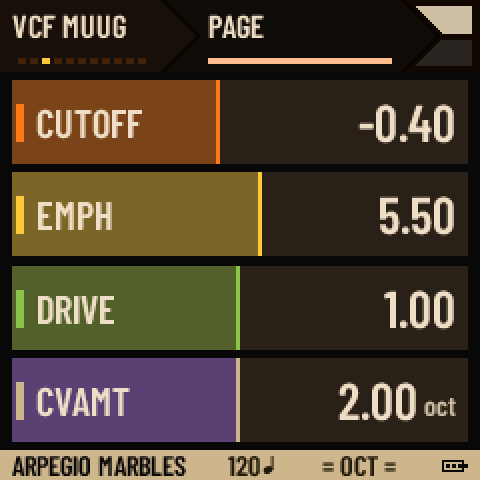
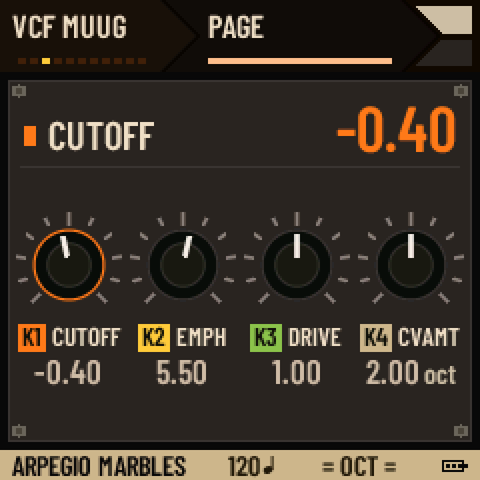
Visuals: MENU > PANEL > VISUAL (AUTO or one scene kept) and VISUAL SCOPE (the oscilloscope over the scenes); docs, screenshots and the LCD manual for the new look
Claude-Session: https://claude.ai/code/session_01GmRWdARKuDH73Lr1UxJzxN

diff --git a/firmware/src/viz_ui.c b/firmware/src/viz_ui.c
@@ -104,6 +104,11 @@ static uint32_t vj_t, vj_scene, vj_since, vj_beat_ms;
 static uint32_t vj_bass, vj_mid, vj_high, vj_pulse, vj_ring;   /* 0..255; the beat's flash; the shock ring's radius */
 static uint32_t vj_avg = 64u, vj_max[3] = {2000u, 2000u, 2000u};
 static const uint16_t VJ_PAL[6] = {0x0000u, 0x2860u, 0x5900u, 0xAA20u, 0xFBC3u, 0xFE4Au};
+/* KITTEN RACK: with the scope over the scenes (MENU > PANEL > VISUAL SCOPE, the web visuals' BOTH) the band it runs in is
+ * darker (55 %), as the web page's */
+static const uint16_t VJ_PAL_DIM[6] = {0x0000u, 0x1820u, 0x30A0u, 0x5940u, 0x8A62u, 0x8B65u};
+#define VJ_BAND0 5u                     /* the band's cell rows: 20 .. 80 % of the screen */
+#define VJ_BAND1 22u
 
 /* the bass, the middle, the highs of the last 512 samples (half rate), each 0..255 of what it reached lately */
 static void vj_listen(void)
@@ -206,13 +211,47 @@ static uint32_t vj_cell(uint32_t x, uint32_t y)
     }
 }
 
+/* KITTEN RACK: the scope's trace over the scenes: per column its span (viz_lo..viz_hi) around the screen's middle, the
+ * cells under the last one drawn again (vj_drawn 0xFF) before the scene, the new trace over them after */
+#define VJ_YC (VJ_Y0 + VJ_H * 4u)
+static uint32_t vj_trace_start, vj_trace_gain = 256u;
+static void vj_trace_prep(void)
+{
+    uint32_t w = viz_w, i, peak = 0, want;
+    vj_trace_start = 0;
+    for (i = 1; i < 300u; i++)                  /* the trigger: rising through zero (as viz_scope) */
+        if (VIZ_AT(w, 560u, i - 1u) < 0 && VIZ_AT(w, 560u, i) >= 0) {
+            vj_trace_start = i;
+            break;
+        }
+    for (i = vj_trace_start; i < vj_trace_start + 240u; i++) {
+        int32_t v = VIZ_AT(w, 560u, i);
+        uint32_t a = (uint32_t)(v < 0 ? -v : v);
+        peak = a > peak ? a : peak;
+    }
+    want = peak > 600u ? (80u << 16) / peak : (80u << 16) / 600u;
+    want = want > 4096u ? 4096u : want;
+    vj_trace_gain = (vj_trace_gain * 7u + want) / 8u;
+}
+static int32_t vj_trace_y(uint32_t x)
+{
+    int32_t v = VIZ_AT(viz_w, 560u, vj_trace_start + x), y = (int32_t)VJ_YC - ((v * (int32_t)vj_trace_gain) >> 8) / 256;
+    return clampi(y, (int32_t)(VJ_Y0 + VJ_BAND0 * 8u), (int32_t)(VJ_Y0 + VJ_BAND1 * 8u) - 1);
+}
+
 static void viz_vj(int full)
 {
-    uint32_t x, y, i;
+    uint32_t x, y, i, scope = cfg.viz_scope;
     if (full || !viz_ok) {
-        viz_ground("VISUAL");
+        static char title[24];
+        put(put(title, "VISUAL  "), cfg.viz_scene ? VIZ_SCENE_NAME[cfg.viz_scene - 1u] : "AUTO")[0] = 0;
+        viz_ground(title);
         for (i = 0; i < VJ_W * VJ_H; i++)
             vj_drawn[i] = 0;
+        for (x = 0; x < 240u; x++) {
+            viz_lo[x] = 1;
+            viz_hi[x] = 0;
+        }
         vj_since = fm1_ms;
         viz_ok = 1;
     }
@@ -220,19 +259,51 @@ static void viz_vj(int full)
     vj_t++;
     vj_pulse = vj_pulse > 24u ? vj_pulse - 24u : 0u;
     vj_ring += 12u;
-    if (fm1_ms - vj_since > 10000u) {           /* the next scene, if no beat brought it */
+    if (cfg.viz_scene)                          /* KITTEN RACK: one scene kept (MENU > PANEL > VISUAL) */
+        vj_scene = cfg.viz_scene - 1u;
+    else if (fm1_ms - vj_since > 10000u) {      /* the next scene, if no beat brought it */
         vj_scene = (vj_scene + 1u) % 5u;
         vj_since = fm1_ms;
     }
+    if (scope)
+        for (x = 0; x < 240u; x++)              /* the cells under the last trace: drawn again */
+            if (viz_lo[x] <= viz_hi[x])
+                for (y = (viz_lo[x] - VJ_Y0) / 8u; y <= (uint32_t)(viz_hi[x] - VJ_Y0) / 8u && y < VJ_H; y++)
+                    vj_drawn[y * VJ_W + x / 8u] = 0xFFu;
     for (y = 0; y < VJ_H; y++)
         for (x = 0; x < VJ_W; x++) {
-            uint32_t c = vj_cell(x, y);
+            uint32_t c = vj_cell(x, y), dim = scope && y >= VJ_BAND0 && y < VJ_BAND1, code = c | (dim ? 8u : 0u);
             i = y * VJ_W + x;
-            if (c == vj_drawn[i])
+            if (code == vj_drawn[i])
                 continue;
-            vj_drawn[i] = (uint8_t)c;
-            lcd_fill(x * 8u, VJ_Y0 + y * 8u, 8, 8, VJ_PAL[c]);
+            vj_drawn[i] = (uint8_t)code;
+            lcd_fill(x * 8u, VJ_Y0 + y * 8u, 8, 8, dim ? VJ_PAL_DIM[c] : VJ_PAL[c]);
         }
+    if (!scope) {
+        for (x = 0; x < 240u; x++) {
+            viz_lo[x] = 1;
+            viz_hi[x] = 0;
+        }
+        return;
+    }
+    vj_trace_prep();
+    {
+        int32_t prev = vj_trace_y(0);
+        for (x = 0; x < 240u; x++) {            /* the trace, 2 px at least, bright where it is steep */
+            int32_t yy = vj_trace_y(x), lo = yy < prev ? yy : prev, hi = yy < prev ? prev : yy, k;
+            prev = yy;
+            if (hi - lo < 1)
+                hi = lo + 1;
+            lcd_sync();
+            for (k = lo; k <= hi; k++) {
+                uint16_t c = hi - lo > 6 ? VIZ_OR : VIZ_OR_HI;
+                lcd_line[k - lo] = (uint16_t)((c >> 8) | (c << 8));
+            }
+            lcd_blit(x, (uint32_t)lo, 1, (uint32_t)(hi - lo + 1), lcd_line);
+            viz_lo[x] = (uint8_t)lo;
+            viz_hi[x] = (uint8_t)hi;
+        }
+    }
 }
 
 static void viz_draw(int full)

diff --git a/firmware/src/menu.c b/firmware/src/menu.c
@@ -23,10 +23,14 @@ static void settings_store(void);               /* main.c: the settings record n
 enum { MT_PANEL, MT_MIDI, MT_REC, MT_SYSTEM, MT_MANUAL, MT_COUNT };   /* (MANUAL has no rows: a text) */
 static const char *const ROW_NAME[MR_COUNT] = {"LEDS", "KNOB ACCEL", "MIDI CHANNEL", "CLOCK IN", "MIDI OUT",
                                               "VERSION", "CPU", "CPU PEAK", "BANK SLOTS", "BATTERY", "UPDATE MODE", "FACTORY RESET", "LANGUAGE",
-                                              "CLICK", "CLICK LEVEL", "REC MODE", "REC LENGTH", "REC START", "QUANTIZE", "KEY LIGHTS"};
+                                              "CLICK", "CLICK LEVEL", "REC MODE", "REC LENGTH", "REC START", "QUANTIZE", "KEY LIGHTS",
+                                              "VISUAL", "VISUAL SCOPE"};
 static const uint8_t ROW_TAB[MR_COUNT] = {MT_PANEL, MT_PANEL, MT_MIDI, MT_MIDI, MT_MIDI, MT_SYSTEM, MT_SYSTEM, MT_SYSTEM, MT_SYSTEM, MT_SYSTEM, MT_SYSTEM,
-                                          MT_SYSTEM, MT_PANEL, MT_REC, MT_REC, MT_REC, MT_REC, MT_REC, MT_REC, MT_PANEL};
+                                          MT_SYSTEM, MT_PANEL, MT_REC, MT_REC, MT_REC, MT_REC, MT_REC, MT_REC, MT_PANEL,
+                                          MT_PANEL, MT_PANEL};
 static const char *const TAB_NAME[MT_COUNT] = {"PANEL", "MIDI", "REC", "SYSTEM", "MANUAL"};
+/* KITTEN RACK: the VJ screen's scenes (viz_ui.c vj_cell), as MENU > PANEL > VISUAL names them */
+static const char *const VIZ_SCENE_NAME[5] = {"CORRIDOR", "STARBURST", "HELICES", "SPIRAL", "PLASMA"};
 /* KITTEN RACK: the REC tab's values (the REC screen shows them too: seq_ui.c) */
 static const char *rec_value(uint32_t row)
 {
@@ -106,6 +110,8 @@ static void menu_value(uint32_t row, char *out)
     case MR_LEDS: p = put(p, cfg.leds == 0 ? "OFF" : cfg.leds == 1 ? "DIM LOW" : "DIM HIGH"); break;
     case MR_ACCEL: p = put(p, ONOFF[cfg.accel]); break;
     case MR_KEYLEDS: p = put(p, ONOFF[cfg.key_leds]); break;
+    case MR_VIZ: p = put(p, cfg.viz_scene ? VIZ_SCENE_NAME[cfg.viz_scene - 1u] : "AUTO"); break;
+    case MR_VIZSCOPE: p = put(p, ONOFF[cfg.viz_scope]); break;
     case MR_LANG: p = put(p, cfg.lang ? "ESPANOL" : "ENGLISH"); break;
     case MR_CLICK: case MR_CLICKLVL: case MR_RMODE: case MR_RBARS: case MR_RSTART: case MR_RQUANT: p = put(p, rec_value(row)); break;
     case MR_CPU:
@@ -348,6 +354,16 @@ static void setting_step(uint32_t row, int32_t s)       /* a setting's next / pr
     case MR_ACCEL: cfg.accel = (uint8_t)up; break;
     case MR_KEYLEDS:
         cfg.key_leds = (uint8_t)up;
+        cfg_dirty = 1;
+        cfg_dirty_ms = fm1_ms;
+        break;
+    case MR_VIZ:                                    /* KITTEN RACK: the VJ screen's scene: AUTO, or one kept */
+        cfg.viz_scene = (uint8_t)clampi((int32_t)cfg.viz_scene + d, 0, 5);
+        cfg_dirty = 1;
+        cfg_dirty_ms = fm1_ms;
+        break;
+    case MR_VIZSCOPE:
+        cfg.viz_scope = (uint8_t)up;
         cfg_dirty = 1;
         cfg_dirty_ms = fm1_ms;
         break;

diff --git a/tools/release_notes.py b/tools/release_notes.py
@@ -6,6 +6,8 @@ import os
 v = os.environ.get("V", "X.Y.Z")
 print(f"""**New in 1.5 · Nuevo en 1.5**
 - **VCO Chord:** five oscillators playing a chord (7 chords, 16 inversions, 7 waves, detune), a built-in arpeggiator and an 8-bit mode, after VCO Chord 2.0 and HAGIWO's chord VCO. Cinco osciladores que tocan un acorde, con arpegiador y modo 8 bits, homenaje al VCO Chord 2.0 y al VCO de acordes de HAGIWO.
+- **New screen look / Pantalla nueva:** knobs on a faceplate, the last turned large, envelopes with their curve; menu and SONG on the same plate. Perillas en un panel, la última que tocaste en grande, las envolventes con su curva; el menú y SONG en el mismo panel.
+- **Visuals / Visuales:** MENU > PANEL > VISUAL (AUTO or one scene / o una escena fija) and VISUAL SCOPE (the scope over the scenes / el osciloscopio encima).
 - **Seq 960: 16 steps and ratchets / 16 pasos y ratcheo:** CHAIN (8 / 16 A+B) chains rows A and B into one row of 16 steps; R1..R8 play each step 1 to 4 times. CHAIN encadena las filas A y B en una de 16 pasos; R1..R8 repiten cada paso de 1 a 4 veces.
 - From 1.4 / De la 1.4: the **Seq 960**, after Moog's 960 sequencer: three rows of eight steps (A, B, C), a switch per step (PLAY / SKIP / STOP / RESET), the transport or a clock in CLK, outputs A, B, C, GATE, T1..T8 and KEYS, which plays a voice or a Drum map without the FM-1's keys (notes from row A, B or C, velocity fixed or from a row). Un secuenciador estilo Moog 960: tres filas de ocho pasos, una llave por paso (PLAY / SKIP / STOP / RESET), el transporte o un reloj en CLK, salidas A, B, C, GATE, T1..T8 y KEYS, que toca una voz o un Drum map sin las teclas del FM-1 (notas de la fila A, B o C, velocidad fija o de una fila).
 - From 1.3 / De la 1.3: button and key lights. Luces en botones y teclas.

diff --git a/firmware/src/ui.c b/firmware/src/ui.c
@@ -34,7 +34,7 @@ static void sandbox_bar(void);
 
 /* the settings' rows (menu.c; GLO shows some of them: pages_ui.c glo_page) */
 enum { MR_LEDS, MR_ACCEL, MR_CH, MR_CLOCK, MR_MOUT, MR_VERSION, MR_CPU, MR_PEAK, MR_SLOTS, MR_BATT, MR_UPDATE, MR_DEFAULTS, MR_LANG,
-       MR_CLICK, MR_CLICKLVL, MR_RMODE, MR_RBARS, MR_RSTART, MR_RQUANT, MR_KEYLEDS, MR_COUNT };   /* (KITTEN RACK: the REC tab) */
+       MR_CLICK, MR_CLICKLVL, MR_RMODE, MR_RBARS, MR_RSTART, MR_RQUANT, MR_KEYLEDS, MR_VIZ, MR_VIZSCOPE, MR_COUNT };   /* (KITTEN RACK: the REC tab) */
 /* the settings of the menu (menu.c); saved with the state (SAVE) */
 static struct {
     uint8_t leds;                       /* the idle buttons glow: 0 off, 1 dim low, 2 dim higher */
@@ -50,7 +50,9 @@ static struct {
      * bars (3), it starts on the first note or after a bar counted in, quantized to the steps or as played */
     uint8_t click, click_lvl, rec_free, rec_bars, rec_count, rec_quant;
     uint8_t key_leds;                   /* KITTEN RACK: the keys light while held or sounded by the sequencer (MENU > PANEL) */
-} cfg = {2, 1, 1, 0, 1, 1, 1, 0, 1, 6, 0, 0, 0, 0, 1};
+    uint8_t viz_scene;                  /* KITTEN RACK: the VJ screen's scene, 0 each in turn (AUTO), 1..5 that one (MENU > PANEL) */
+    uint8_t viz_scope;                  /* .. and the oscilloscope over it (the web visuals' BOTH) */
+} cfg = {2, 1, 1, 0, 1, 1, 1, 0, 1, 6, 0, 0, 0, 0, 1, 0, 0};
 static uint8_t cfg_dirty;               /* KITTEN RACK: a REC setting changed: stored when nothing plays (main.c cfg_poll) */
 static uint32_t cfg_dirty_ms;
 /* KITTEN RACK: a text in the language set (cfg.lang): LG("ENGLISH", "SPANISH"). Only the texts KITTEN RACK wrote in Spanish

diff --git a/firmware/src/main.c b/firmware/src/main.c
@@ -191,7 +191,8 @@ static int slot_used(uint32_t s) { return s < M1_SLOTS && (bank_mask >> s & 1u);
 /* the settings record: version, slot, octave + 8, LED mode, knob accel, CPU in the bar, clock in, program change,
  * MIDI channel, MIDI out, the bank's format, the selected module */
 #define SET_VERSION 1u
-#define SET_LEN 24u                                 /* KITTEN RACK: byte 16 the language, 17..22 the REC tab, 23 the keys' lights */
+#define SET_LEN 26u                                 /* KITTEN RACK: byte 16 the language, 17..22 the REC tab, 23 the keys' lights,
+                                                     * 24..25 the visualizers (the scene, the scope over it) */
 #define SET_MIN 12u                                 /* (a record from before KITTEN RACK's bank id: 12 bytes) */
 /* the patch format the bank's untouched factory slots were brought to (settings byte 10; 0 in a record from before):
  * below ENG_PATCH_VERSION, the boot rewrites them once (bank_upgrade) */
@@ -224,6 +225,8 @@ static void settings_pack(uint8_t *d)
     d[21] = cfg.rec_count;
     d[22] = cfg.rec_quant;
     d[23] = cfg.key_leds;
+    d[24] = cfg.viz_scene;
+    d[25] = cfg.viz_scope;
 }
 static int settings_unpack(const uint8_t *d, uint32_t len, uint32_t *slot, uint32_t *module)
 {
@@ -247,6 +250,8 @@ static int settings_unpack(const uint8_t *d, uint32_t len, uint32_t *slot, uint3
         cfg.rec_quant = d[22] & 1u;
     }
     cfg.key_leds = len >= 24u ? d[23] & 1u : 1u;
+    cfg.viz_scene = len >= 26u && d[24] <= 5u ? d[24] : 0u;
+    cfg.viz_scope = len >= 26u ? d[25] & 1u : 0u;
     bank_fmt = d[10];
     *module = d[11];
     return 0;

diff --git a/firmware/src/manual.c b/firmware/src/manual.c
@@ -54,10 +54,13 @@ static const char *const MANUAL[] = {
     "   SELECT / ALGO LOAD AS YOU TURN",
     " ENV HELD + SAVE: STORE ITS VALUES",
     "   (OVER YOURS, A FACTORY ONE: NEW)",
-    " K1-K4: THE FOUR ROWS OF THE PAGE",
+    " K1-K4: THE FOUR KNOBS OF THE PAGE",
+    "   (THE LAST TURNED: LARGE ON TOP)",
     " HOME ON THE DEVICE PAGE: THE",
     "   OSCILLOSCOPE, AGAIN: VISUALS,",
-    "   AGAIN: BACK",
+    "   AGAIN: BACK. MENU > PANEL >",
+    "   VISUAL: AUTO OR ONE SCENE KEPT,",
+    "   VISUAL SCOPE: THE WAVE OVER IT",
     " HOME: BACK ONE STEP (OUT OF SEQ,",
     "   OF THIS MENU), HELD: THIS MENU",
     " ALGO MOVES SIDEWAYS, SELECT PICKS",

diff --git a/docs/MANUAL.es.md b/docs/MANUAL.es.md
@@ -56,7 +56,9 @@ Si la ventana no abre: `python instalar_kitten_rack.py` (modo texto; `--solo-inf
 
 ## 2. El FM-1, botón por botón
 
-El FM-1 toca **patches**: un patch es un rack entero (módulos, cables, perillas y secuencias). La pantalla muestra un módulo a la vez; **K1 a K4** mueven sus cuatro perillas de la página que se ve.
+El FM-1 toca **patches**: un patch es un rack entero (módulos, cables, perillas y secuencias). La pantalla muestra un módulo a la vez, como un panel con cuatro perillas: **K1 a K4** las mueven. Debajo de cada perilla, su etiqueta (K1 … K4, en su color), el nombre del parámetro que mueve y su valor; arriba, en grande, la última perilla que tocaste. Las envolventes (ADSR, ENV, ENV 8, ENV DX, Función) dibujan además su curva ahí, cada etapa en el color de la perilla que la ajusta; en una página con otras etapas (ENV 8, por ejemplo) las perillas dicen cuáles mueven.
+
+![La pantalla del módulo](img/device-page.png)
 
 | Control | Qué hace |
 | --- | --- |
@@ -207,7 +209,7 @@ Se guarda el patch entero: sonido, cables y secuencias. Los lugares 1 a 33 traen
 En la pantalla del módulo, **HOME** (sin nada para atrás) abre el **osciloscopio**; HOME otra vez, las **visuales**; HOME otra vez vuelve. Las perillas siguen funcionando mientras tanto.
 
 - **Osciloscopio:** la onda de la salida, con disparo en el cruce por cero y volumen automático.
-- **Visuales:** cinco escenas en seis tonos de naranja sobre negro: un pasillo, un estallido con onda de choque en cada golpe, tres hélices, una espiral y un plasma. Los graves, los medios, los agudos y los golpes las mueven. Cambian cada 10 segundos, o con un golpe después de 5.
+- **Visuales:** cinco escenas en seis tonos de naranja sobre negro: un pasillo, un estallido con onda de choque en cada golpe, tres hélices, una espiral y un plasma. Los graves, los medios, los agudos y los golpes las mueven. Cambian cada 10 segundos, o con un golpe después de 5. **MENÚ → PANEL → VISUAL**: AUTO (una tras otra) o una fija (CORRIDOR, STARBURST, HELICES, SPIRAL, PLASMA). **VISUAL SCOPE ON** dibuja el osciloscopio encima de las escenas, como LOS DOS en la computadora.
 
 ### En la pantalla grande (proyector, segunda pantalla, OBS)
 

diff --git a/docs/MANUAL.md b/docs/MANUAL.md
@@ -56,7 +56,9 @@ If the window doesn't open: `python instalar_kitten_rack.py` (text mode; `--solo
 
 ## 2. The FM-1, button by button
 
-The FM-1 plays **patches**: a patch is a whole rack (modules, cables, knob settings and sequences). The screen shows one module at a time; **K1 to K4** turn the four knobs of the page shown.
+The FM-1 plays **patches**: a patch is a whole rack (modules, cables, knob settings and sequences). The screen shows one module at a time, as a panel with four knobs: **K1 to K4** turn them. Under each knob its tab (K1 … K4, in its colour), the name of the parameter it moves and its value; on top, the knob you turned last, large. Envelopes (ADSR, ENV, ENV 8, ENV DX, Function) also draw their curve there, each stage in the colour of the knob that sets it; on a page with other stages (ENV 8, say) the knobs say which ones they move.
+
+![The module page](img/device-page.png)
 
 | Control | What it does |
 | --- | --- |
@@ -207,7 +209,7 @@ The whole patch is saved: sound, cables and sequences. Slots 1 to 33 hold the fa
 On the module page, **HOME** (with nothing behind) opens the **oscilloscope**; HOME again, the **visuals**; HOME again goes back. The knobs keep working meanwhile.
 
 - **Oscilloscope:** the output's waveform, triggered on the zero crossing, with automatic gain.
-- **Visuals:** five scenes in six shades of orange on black: a corridor, a starburst with a shock ring on every beat, three helices, a spiral and a plasma. The bass, the middle, the highs and the beats drive them. They change every 10 seconds, or on a beat after 5.
+- **Visuals:** five scenes in six shades of orange on black: a corridor, a starburst with a shock ring on every beat, three helices, a spiral and a plasma. The bass, the middle, the highs and the beats drive them. They change every 10 seconds, or on a beat after 5. **MENU → PANEL → VISUAL**: AUTO (each in turn) or one of them kept (CORRIDOR, STARBURST, HELICES, SPIRAL, PLASMA). **VISUAL SCOPE ON** draws the oscilloscope over the scenes, as the computer's LOS DOS.
 
 ### On a big screen (projector, second screen, OBS)
 

diff --git a/CHANGELOG.md b/CHANGELOG.md
@@ -2,6 +2,11 @@
 
 Kitten Rack's versions. Each release on GitHub has an installer, the `.fwsc` and the offline editor. The history of Matryoshka, which Kitten Rack starts from, is in [docs/CHANGELOG-matryoshka.md](docs/CHANGELOG-matryoshka.md).
 
+## 1.5.0-rc3 — 2026-11-15 (test version)
+
+- **A new look for the screen** (the owner's mocks): the module page is a panel with **four knobs** (scale, pointer, the knob's colour on its tab) and, on top, the knob turned last, large; **envelopes draw their curve**, each stage in the colour of the knob that sets it, the knobs named after what they move. GLO and the sandbox page the same; the **menu** and the **SONG** page on the same faceplate (LEDs, value windows, key caps).
+- **Visuals:** MENU → PANEL → **VISUAL** (AUTO or one scene kept) and **VISUAL SCOPE** (the oscilloscope over the scenes).
+
 ## 1.5.0-rc2 — 2026-11-15 (test version)
 
 - **VCO Chord**, a recreation of VCO Chord 2.0 (Black Kitten Devices, after HAGIWO's chord VCO): five oscillators, seven chords, sixteen inversions, seven waves, detune, a built-in arpeggiator (up, down, up-down, random; on CLK or PLAY; octave range, mutation, structure) and an 8-bit mode with the Arduino's sound. Its pitch follows the keys (a voice's V/OCT) and any CV, such as a Seq 960 row. Patch format 52, only for patches that use it.
